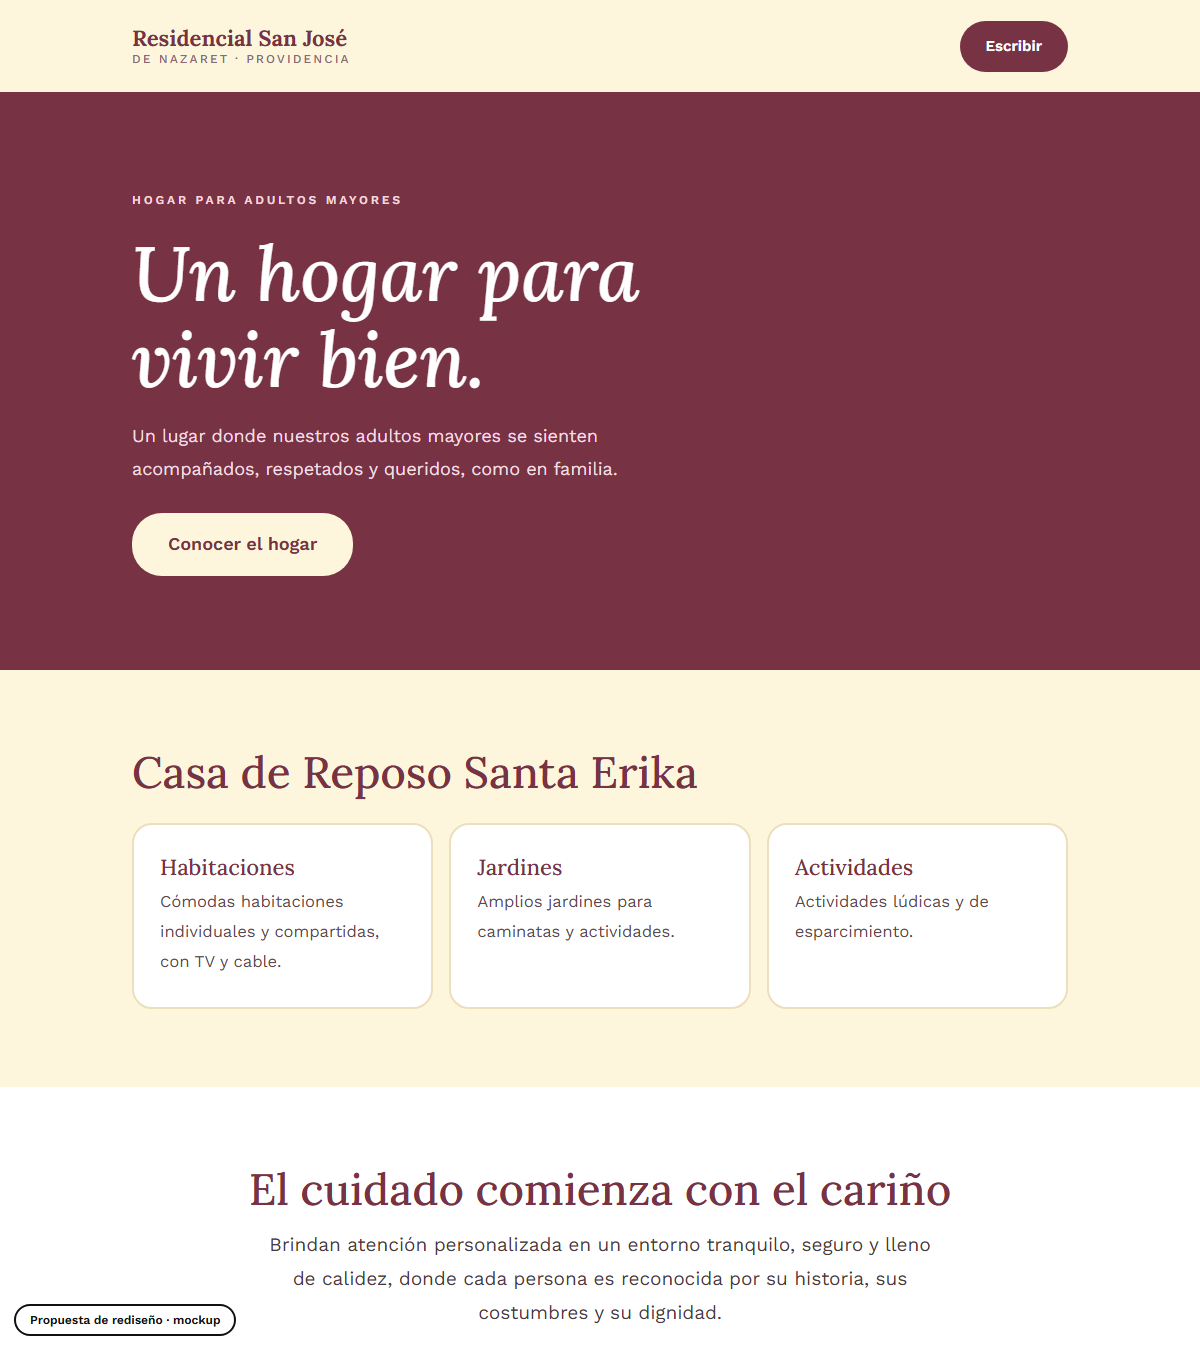
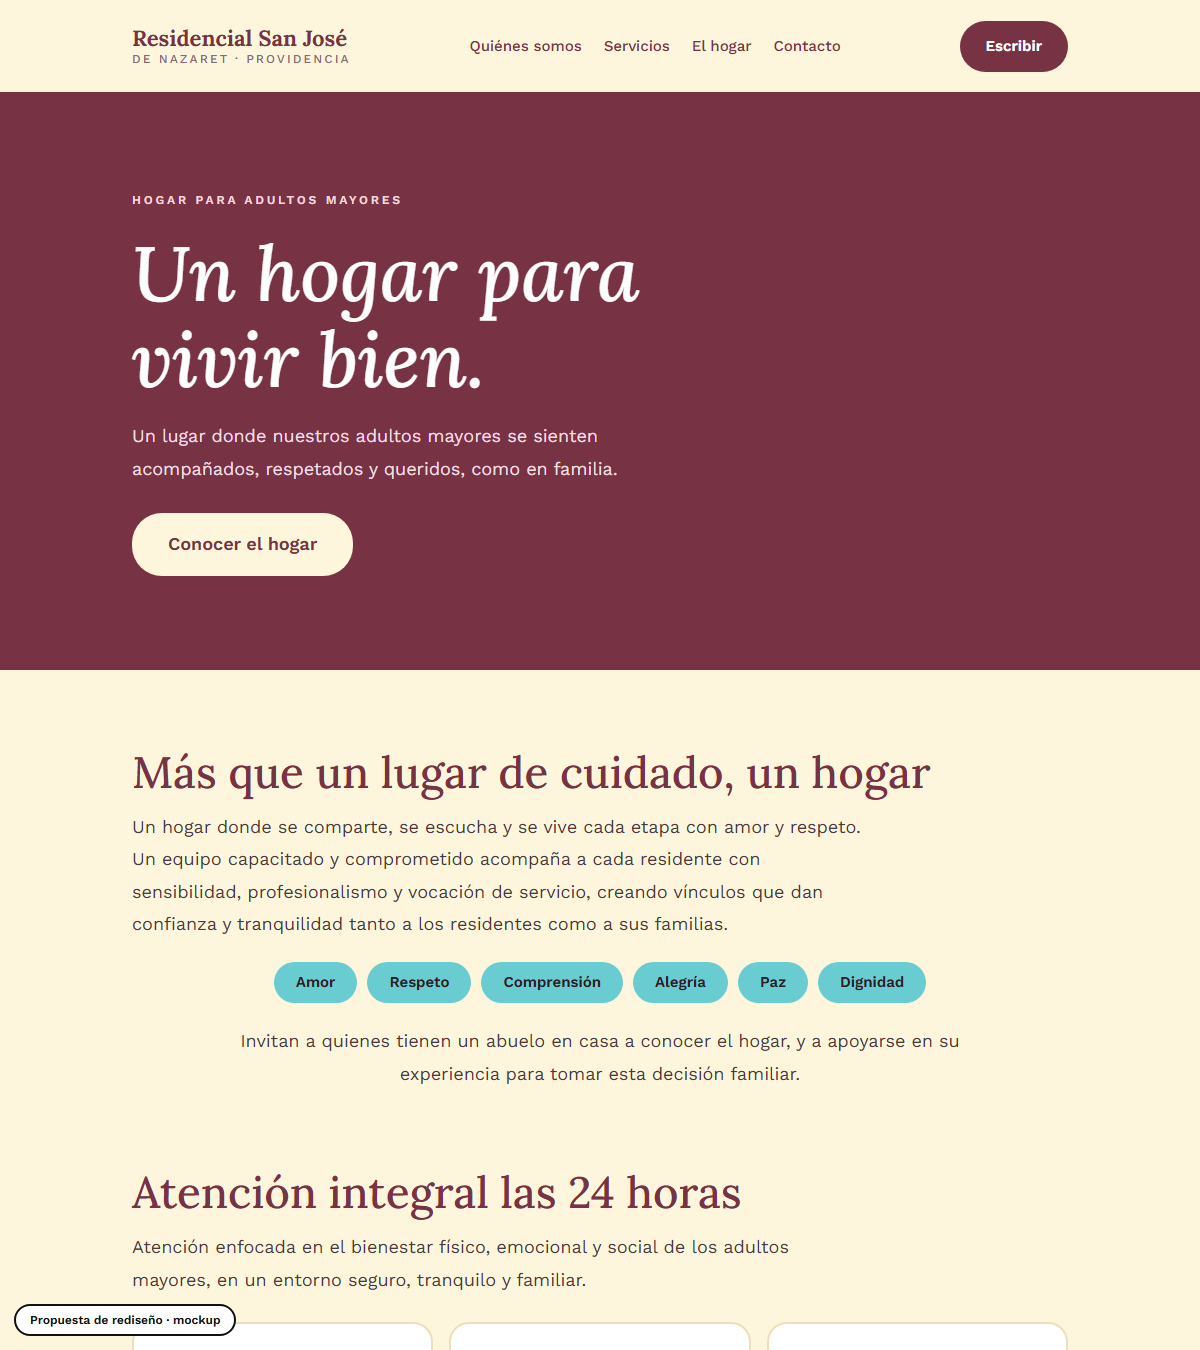
Mockup: residencial-san-jose-providencia

diff --git a/residencial-san-jose-providencia/index.html b/residencial-san-jose-providencia/index.html
@@ -6,7 +6,7 @@
 <link href="https://fonts.googleapis.com/css2?family=Lora:ital,wght@0,500;0,700;1,500&family=Work+Sans:wght@400;500;600&display=swap" rel="stylesheet">
 <style>
 :root{--wine:#773344;--cream:#fdf6dc;--teal:#68ccd1;--ink:#2e1e24;--line:#ecdfbd}
-*{box-sizing:border-box;margin:0}html{scroll-behavior:smooth}
+*{box-sizing:border-box;margin:0}html{scroll-behavior:smooth;scroll-padding-top:100px}
 @media(prefers-reduced-motion:reduce){html{scroll-behavior:auto}}
 body{background:var(--cream);color:var(--ink);font:400 18px/1.8 'Work Sans',sans-serif}
 .wrap{max-width:980px;margin:0 auto;padding:0 22px}
@@ -30,16 +30,21 @@ section{padding:78px 0}h2{font-size:clamp(28px,4.2vw,44px);color:var(--wine);mar
 .contact a.l{display:block;font:italic 500 clamp(32px,5.6vw,58px) Lora;color:#fff;text-decoration:none;margin:8px 0}.contact a.l:hover{color:var(--teal)}
 .contact p{color:#f1dde2}
 footer{padding:22px 0 90px;text-align:center;font-size:12px;letter-spacing:.2em;color:#8a6a73}
-.mock{position:fixed;left:14px;bottom:14px;background:#fff;color:#111;border:2px solid #111;font:600 12px/1 'Work Sans';padding:8px 14px;border-radius:30px;z-index:9}
+.mock{z-index:30;position:fixed;left:14px;bottom:14px;background:#fff;color:#111;border:2px solid #111;font:600 12px/1 'Work Sans';padding:8px 14px;border-radius:30px;z-index:9}
 @media(max-width:820px){.g3{grid-template-columns:1fr}.hero .wrap{padding:52px 22px 56px}}
-</style></head><body>
-<header><div class="wrap"><div class="brand">Residencial San José<small>de Nazaret · Providencia</small></div><a class="b" href="https://wa.me/56993315687?text=Hola%2C%20quisiera%20informaci%C3%B3n%20sobre%20la%20residencial">Escribir</a></div></header>
+nav{display:flex;gap:22px;font-size:15px;font-weight:500}nav a{color:var(--wine);text-decoration:none}nav a:hover{color:var(--ink)}.sv{display:grid;grid-template-columns:repeat(3,1fr);gap:16px;margin-top:26px}.sv>div{background:#fff;border:2px solid var(--line);border-radius:20px;padding:28px 26px}.sv h3{font-size:20px;color:var(--wine);margin-bottom:8px}.sv p{font-size:16.5px;color:#5a4a50}.val{display:flex;flex-wrap:wrap;gap:10px;margin-top:22px;justify-content:center}.val span{background:var(--teal);color:var(--ink);border-radius:30px;padding:7px 22px;font-weight:600;font-size:15px}.help{background:var(--teal);color:var(--ink);text-align:center}.help h2{color:var(--ink)}.help a{display:inline-block;margin-top:12px;background:var(--wine);color:#fff;text-decoration:none;padding:14px 34px;border-radius:30px;font-weight:600}.help a:hover{background:var(--ink)}@media(max-width:820px){nav{display:none}.sv{grid-template-columns:1fr}}</style></head><body>
+<header><div class="wrap"><div class="brand">Residencial San José<small>de Nazaret · Providencia</small></div><nav><a href="#nosotros">Quiénes somos</a><a href="#servicios">Servicios</a><a href="#hogar">El hogar</a><a href="#contacto">Contacto</a></nav><a class="b" href="https://wa.me/56993315687?text=Hola%2C%20quisiera%20informaci%C3%B3n%20sobre%20la%20residencial">Escribir</a></div></header>
 <div class="hero"><div class="wrap"><small>Hogar para adultos mayores</small><h1>Un hogar para vivir bien.</h1><p>Un lugar donde nuestros adultos mayores se sienten acompañados, respetados y queridos, como en familia.</p><a class="btn" href="#contacto">Conocer el hogar</a></div></div>
-<section><div class="wrap"><h2>Casa de Reposo Santa Erika</h2><div class="g3">
-<div><h3>Habitaciones</h3><p>Cómodas habitaciones individuales y compartidas, con TV y cable.</p></div>
-<div><h3>Jardines</h3><p>Amplios jardines para caminatas y actividades.</p></div>
-<div><h3>Actividades</h3><p>Actividades lúdicas y de esparcimiento.</p></div></div></div></section>
-<section class="love"><div class="wrap"><h2>El cuidado comienza con el cariño</h2><p>Brindan atención personalizada en un entorno tranquilo, seguro y lleno de calidez, donde cada persona es reconocida por su historia, sus costumbres y su dignidad.</p><p>Su compromiso es ofrecer bienestar físico, emocional y afectivo en cada etapa de la vida.</p><span class="hours">Atención las 24 horas</span></div></section>
+<section id="nosotros"><div class="wrap"><h2>Más que un lugar de cuidado, un hogar</h2><p style="max-width:66ch;color:#4a3a40">Un hogar donde se comparte, se escucha y se vive cada etapa con amor y respeto. Un equipo capacitado y comprometido acompaña a cada residente con sensibilidad, profesionalismo y vocación de servicio, creando vínculos que dan confianza y tranquilidad tanto a los residentes como a sus familias.</p><div class="val"><span>Amor</span><span>Respeto</span><span>Comprensión</span><span>Alegría</span><span>Paz</span><span>Dignidad</span></div><p style="margin-top:22px;max-width:66ch;color:#4a3a40;text-align:center;margin-left:auto;margin-right:auto">Invitan a quienes tienen un abuelo en casa a conocer el hogar, y a apoyarse en su experiencia para tomar esta decisión familiar.</p></div></section>
+<section id="servicios" style="padding-top:0"><div class="wrap"><h2>Atención integral las 24 horas</h2><p style="max-width:66ch;color:#4a3a40">Atención enfocada en el bienestar físico, emocional y social de los adultos mayores, en un entorno seguro, tranquilo y familiar.</p><div class="sv">
+<div><h3>Cuidado integral las 24 horas</h3><p>Atención permanente, personalizada y supervisada, con acompañamiento continuo, seguridad y bienestar.</p></div>
+<div><h3>Enfermería y cuidadoras</h3><p>Personal de enfermería y cuidadoras día y noche, con vocación, experiencia y trato respetuoso.</p></div>
+<div><h3>Alimentación supervisada</h3><p>Planes alimenticios balanceados y adaptados a cada persona, indicados y supervisados por una nutricionista.</p></div>
+<div><h3>Medicamentos</h3><p>Administración rigurosa y responsable, según prescripción médica y horarios establecidos.</p></div>
+<div><h3>Lavado y cuidado de ropa</h3><p>Cuidado de la ropa personal y de cama, para asegurar higiene, orden y comodidad diaria.</p></div>
+<div><h3>Distintas patologías</h3><p>Atención para diversas condiciones de salud propias de la edad, con seguimiento y acompañamiento continuo.</p></div></div></div></section>
+<section id="hogar" style="background:#fff"><div class="wrap"><h2>Casa de Reposo Santa Erika</h2><div class="sv"><div><h3>Habitaciones</h3><p>Cómodas habitaciones individuales y compartidas, con TV cable.</p></div><div><h3>Jardines</h3><p>Amplios jardines para caminatas activas y actividades al aire libre.</p></div><div><h3>Actividades</h3><p>Actividades lúdicas y de esparcimiento que mejoran la calidad de vida de los residentes.</p></div></div></div></section>
+<section class="help"><div class="wrap"><h2>¿Tienes abuelitos que viven solos o no puedes cuidar?</h2><p style="max-width:52ch;margin:0 auto">Comunícate con ellos y te ayudan. Atienden las 24 horas.</p><a href="https://wa.me/56993315687?text=Hola%2C%20quisiera%20informaci%C3%B3n%20sobre%20la%20residencial">Escribir por WhatsApp</a></div></section>
 <section class="contact" id="contacto"><div class="wrap"><h2>Visítanos</h2><a class="l" href="https://wa.me/56993315687">+56 9 9331 5687</a><p>También +56 9 3146 3026 · Román Díaz 734, Providencia<br><a style="color:#fff" href="mailto:info@residencial-sanjose.com">info@residencial-sanjose.com</a></p></div></section>
 <footer>RESIDENCIAL SAN JOSÉ DE NAZARET · PROVIDENCIA</footer>
 <div class="mock">Propuesta de rediseño · mockup</div></body></html>
